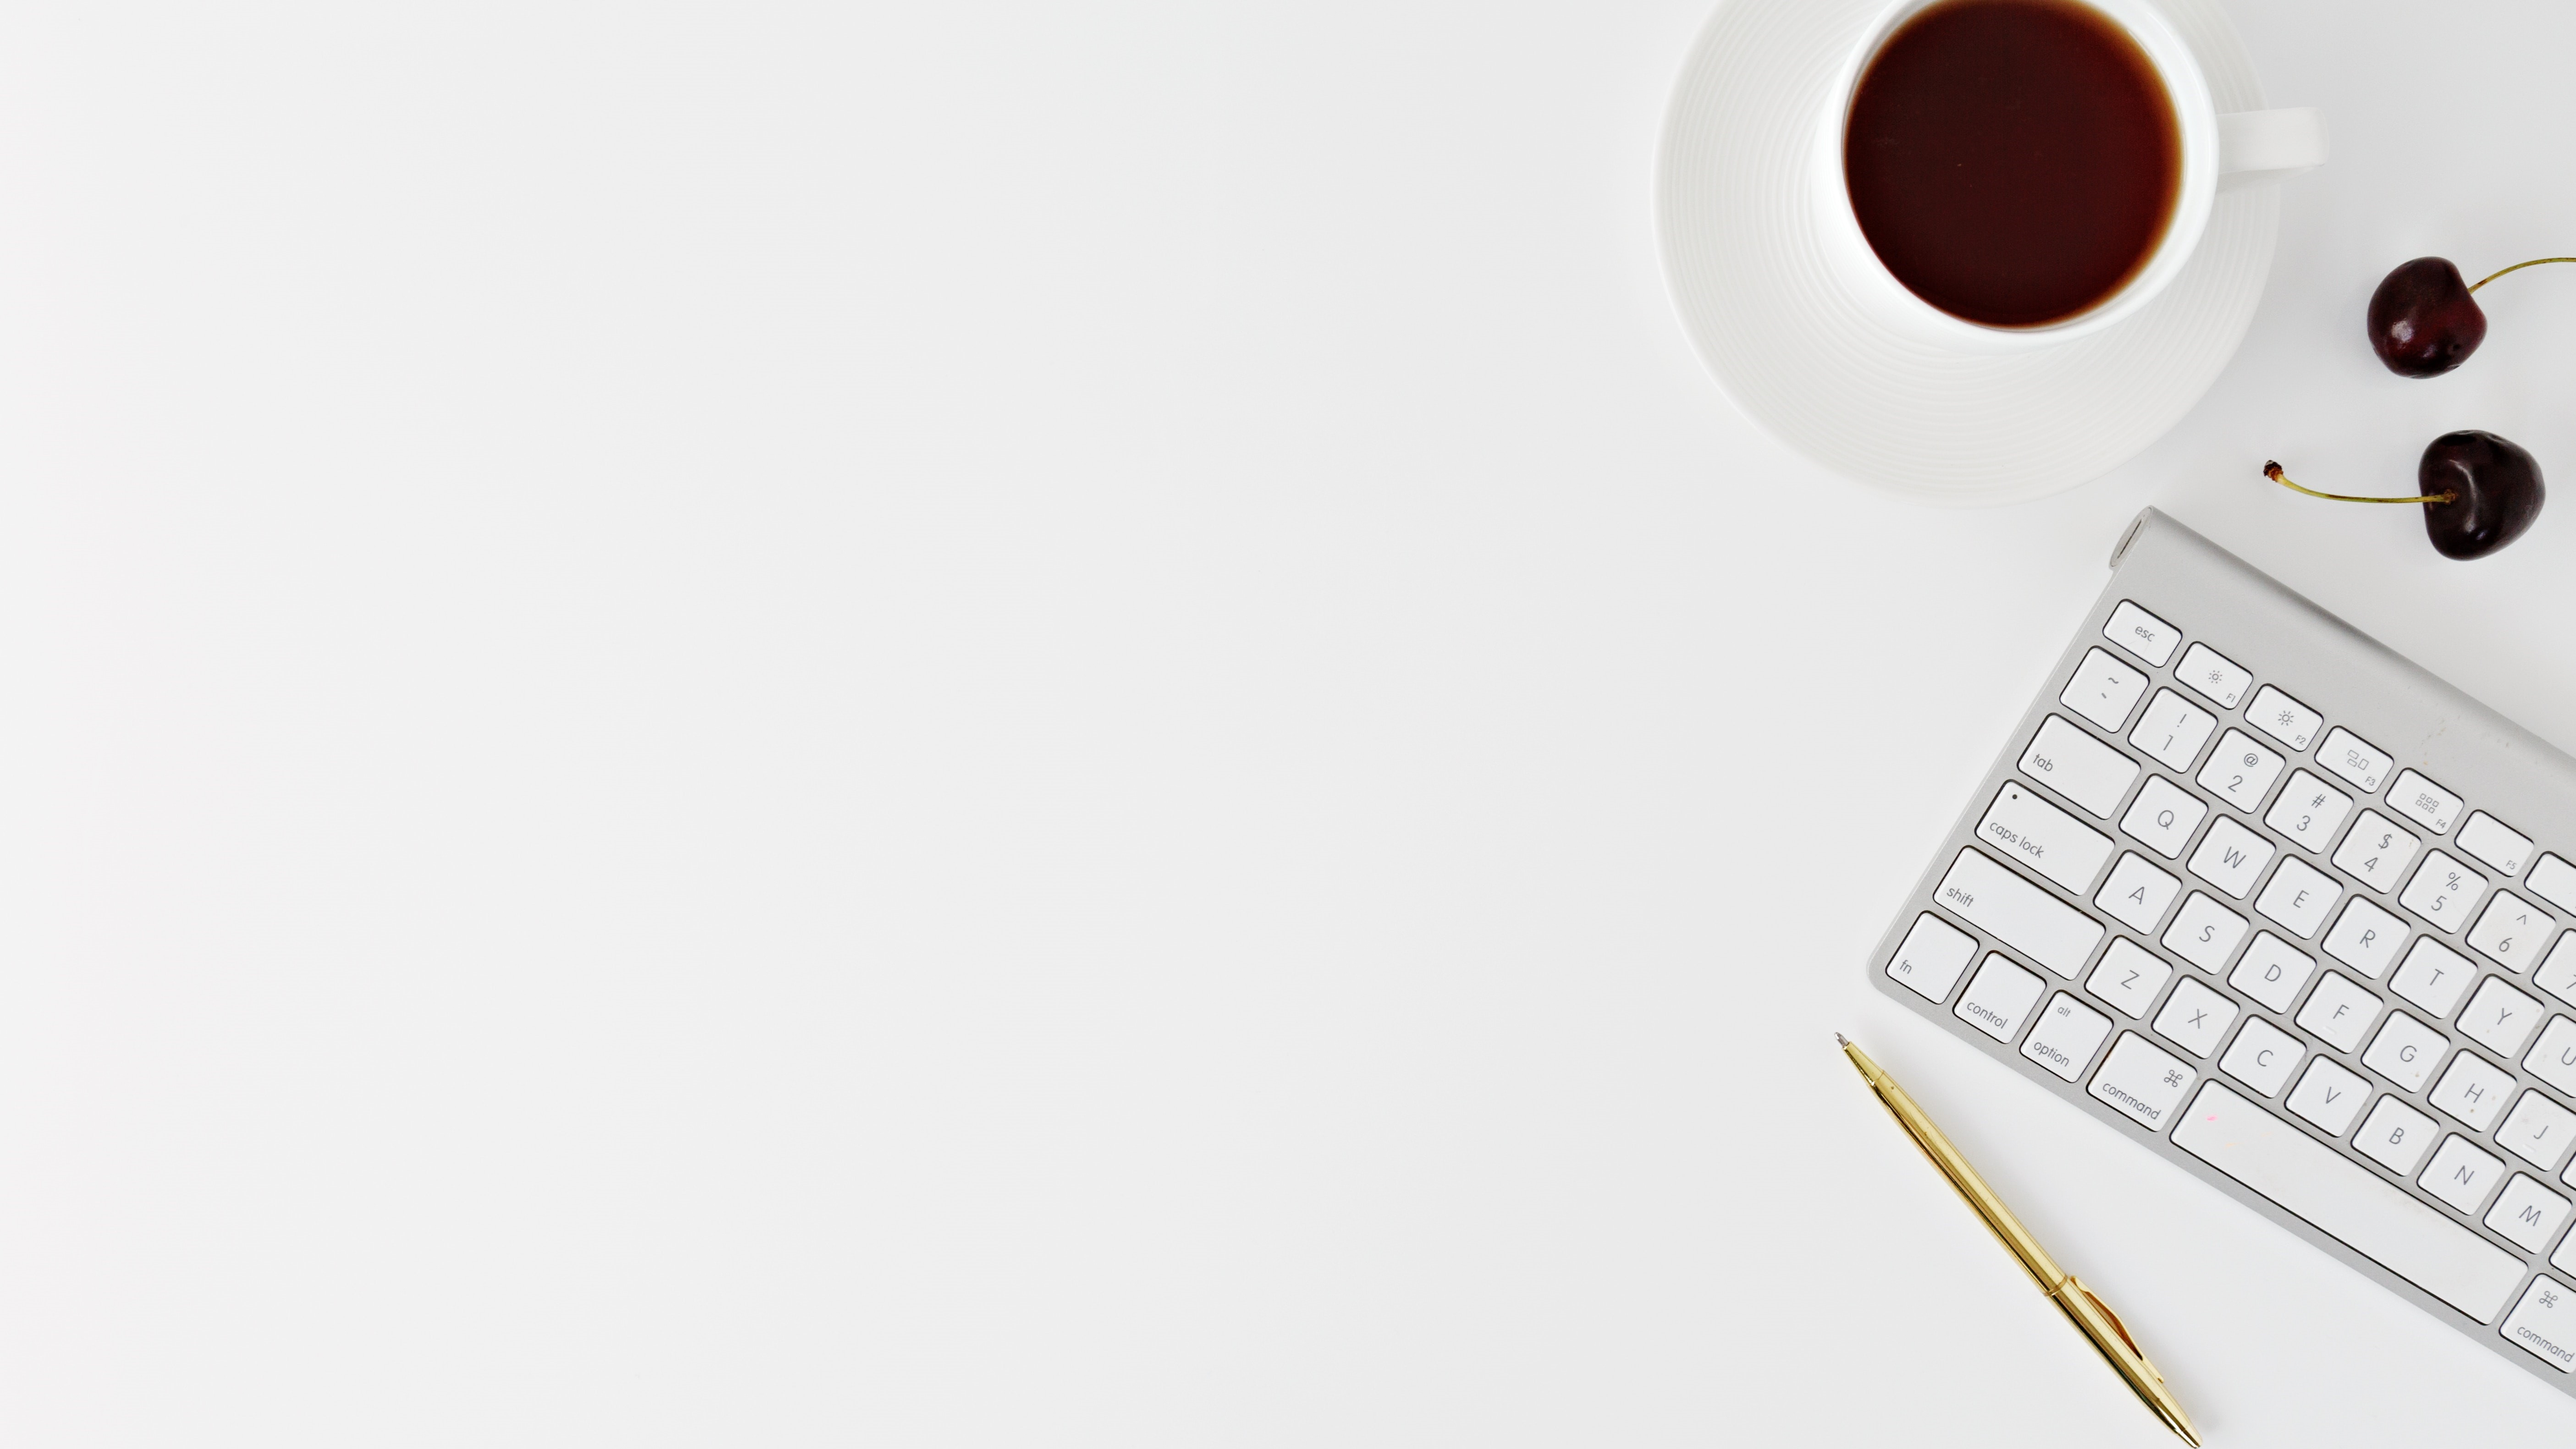
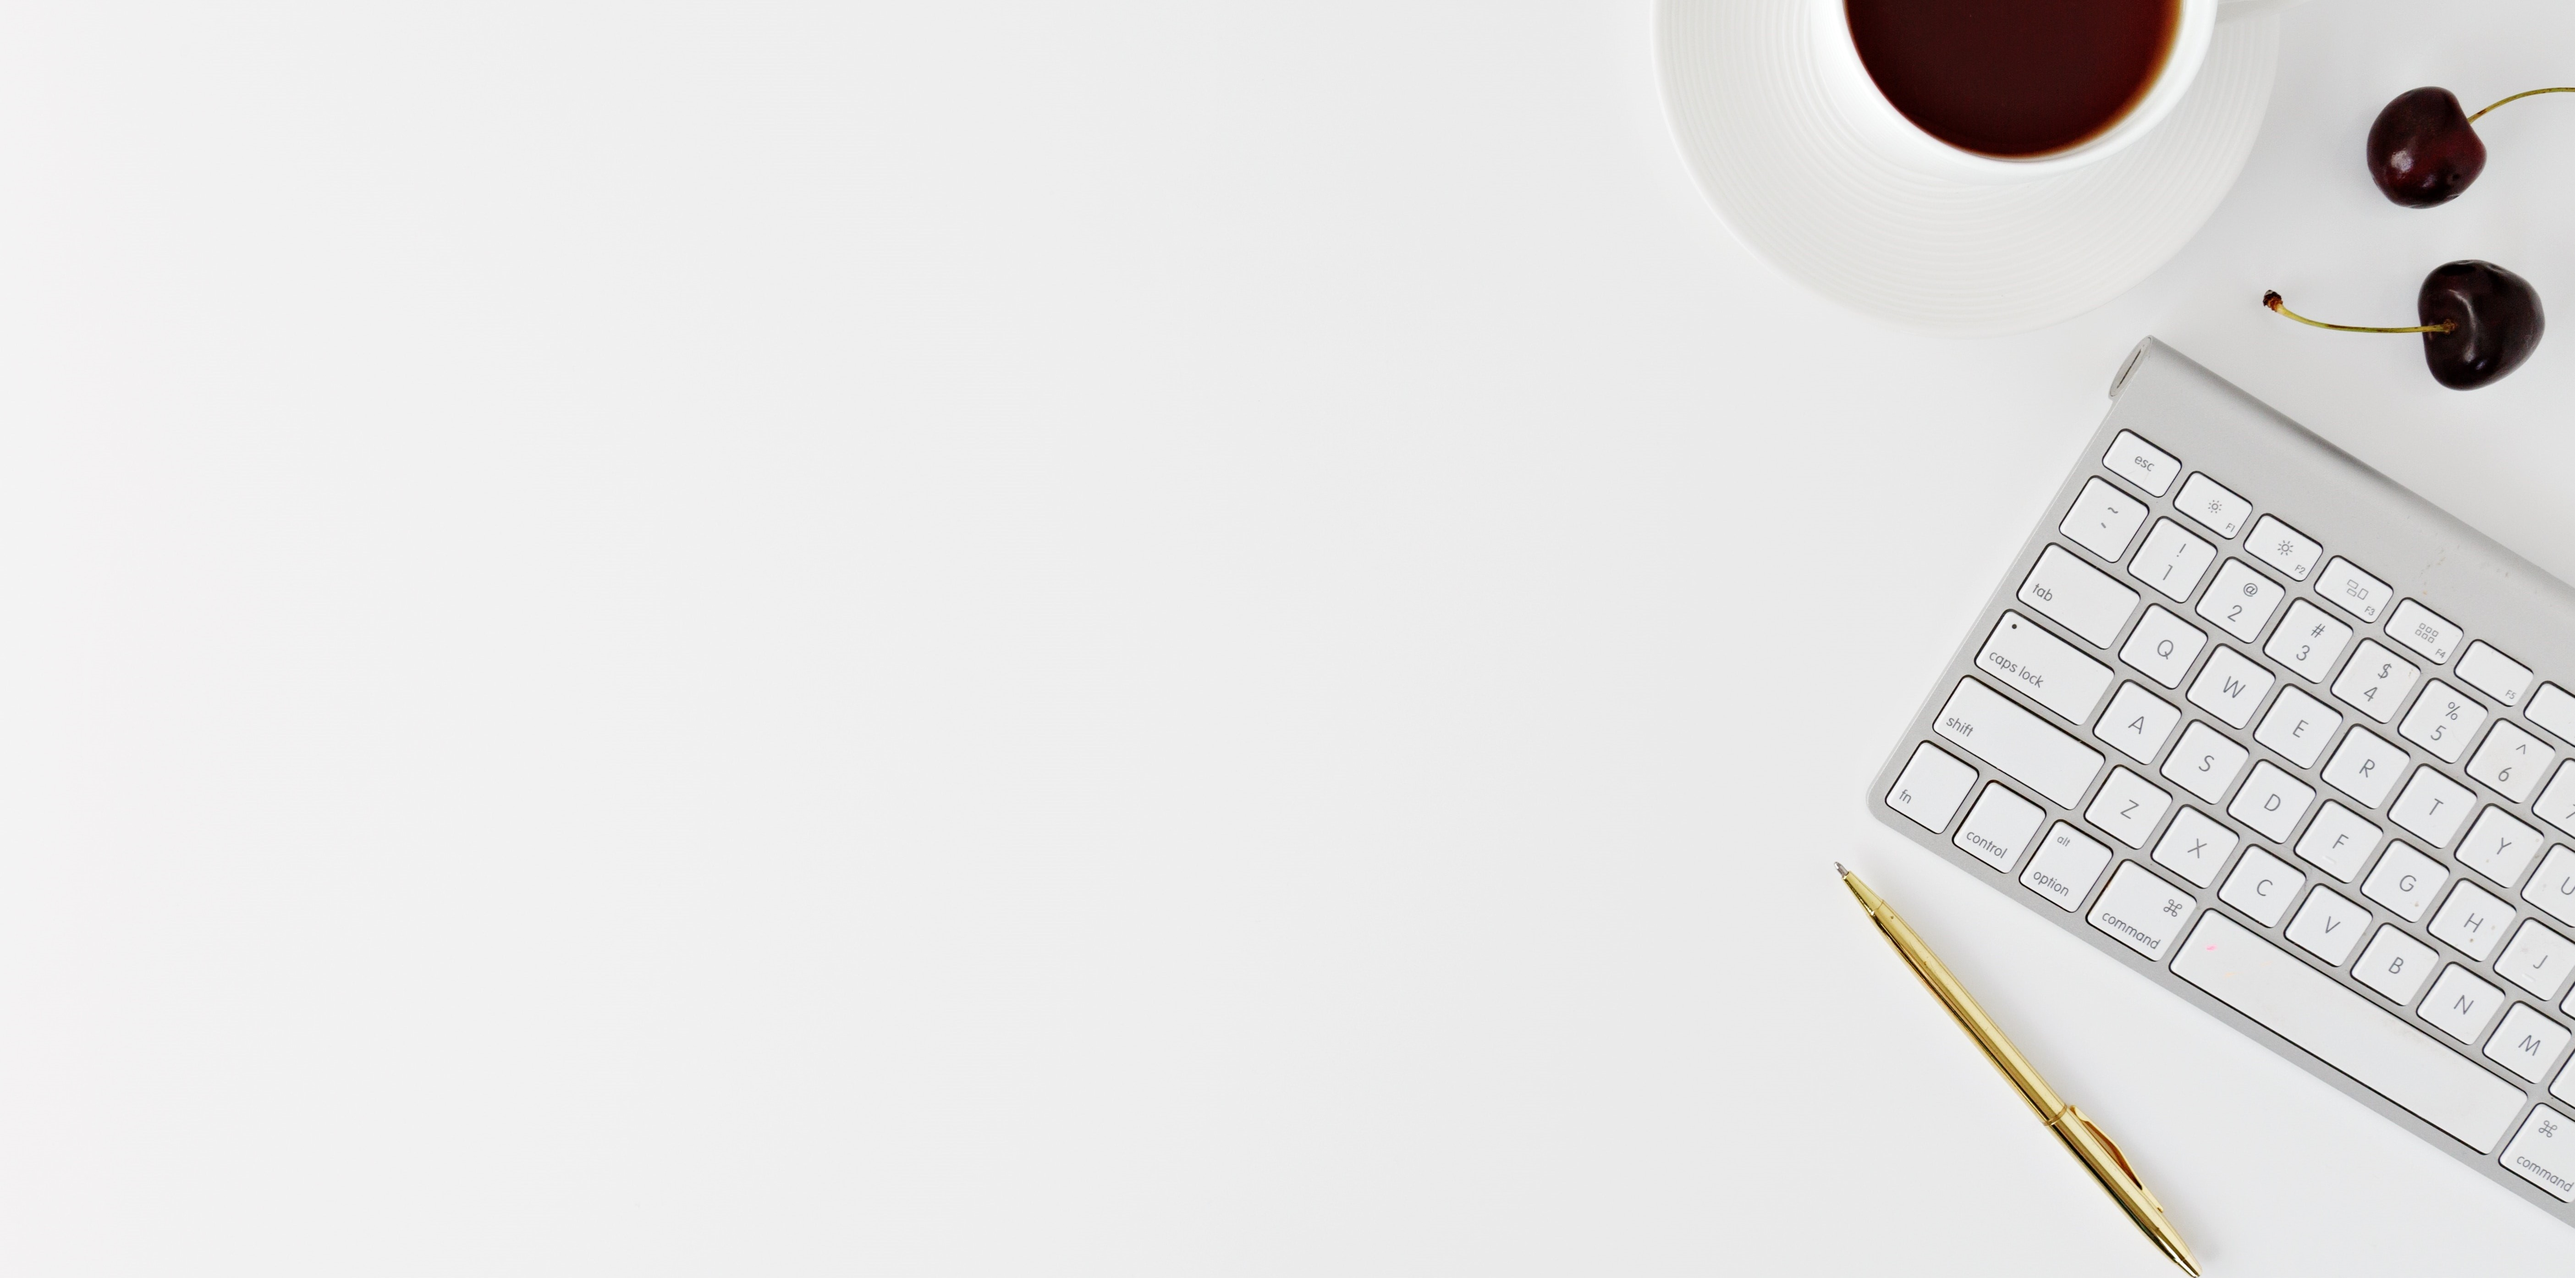
section contact improved

Changed region(s): [[0.7164, 0.0624, 1.0, 0.9982], [0.6853, 0.0, 0.8722, 0.2496], [0.9968, 0.156, 1.0, 0.1872]]

diff --git a/index.html b/index.html
@@ -331,10 +331,67 @@
     <section class="section-contact">
       <div class="container">
         <span class="subheading">Contact info</span>
-        <h2 class="heading-secondary">
+        <h2 class="heading-secondary contact-tittle">
           Have some questions?<br />
           Let's contact us!
         </h2>
+      </div>
+      <div class="container grid grid--3-cols">
+        <div class="contact-info">
+          <div>
+            <p class="contact-data">
+              <ion-icon class="contact-icon" name="locate"></ion-icon>Adress
+            </p>
+            <p class="contact-p">76 Kennington Rd, Lambeth</p>
+            <p class="contact-p">SE11 6NL South London</p>
+          </div>
+          <div>
+            <p class="contact-data">
+              <ion-icon class="contact-icon" name="call"></ion-icon>
+              Phone
+            </p>
+            <p class="contact-p">+020 7735 9883</p>
+            <p class="contact-p">+01344 422444</p>
+          </div>
+          <div>
+            <p class="contact-data">
+              <ion-icon class="contact-icon" name="mail"></ion-icon>Email
+            </p>
+            <p class="contact-p">Contact@cooffeely.com</p>
+          </div>
+        </div>
+        <div class="contact-form-tittle">
+          <p>Send us a message</p>
+          <form class="contact-form">
+            <div>
+              <input
+                id="your-name"
+                type="text"
+                placeholder="Enter Your name"
+                name="Your-name"
+                required
+              />
+            </div>
+            <div>
+              <input
+                id="your-email"
+                type="text"
+                placeholder="Enter Your email"
+                name="Your-email"
+                required
+              />
+            </div>
+            <div>
+              <input
+                id="your-message"
+                type="text"
+                placeholder="Enter Your message"
+                name="Your-message"
+                required
+              />
+            </div>
+          </form>
+        </div>
       </div>
     </section>
   </body>

diff --git a/style.css b/style.css
@@ -227,7 +227,7 @@
 /* SECTION-REVIEWS */
 /*********************/
 .section-review {
-  background-color: #f2f4e9fb;
+  background-color: #f7f8f3d5;
   padding: 8rem 0;
   border-top: 5px double #23320f;
   border-bottom: 5px double #23320f;
@@ -298,10 +298,10 @@
   line-height: 1.6;
 }
 /*********************/
-/* SECTION-CONTACT US */
+/* SECTION-CONTACT */
 /*********************/
 .section-contact {
-  padding: 4.3rem 0;
+  padding: 4.8rem 0;
 
   background-image: linear-gradient(
       to left bottom,
@@ -310,5 +310,68 @@
     ),
     url(./img/contact.jpg);
   background-size: cover;
-  height: 100vh;
+  height: 100%;
+}
+h2.contact-tittle {
+  color: #23320fc8;
+  margin-bottom: 5rem;
+}
+.contact-data {
+  font-size: 2.6rem;
+  margin-bottom: 1.6rem;
+  display: flex;
+  align-items: center;
+  color: #23320fc8;
+}
+.contact-p {
+  font-size: 1.6rem;
+  line-height: 2.6rem;
+}
+.contact-info div {
+  margin-bottom: 1.6rem;
+}
+.contact-form-tittle p {
+  font-size: 2.6rem;
+  color: #23320fc8;
+  margin-bottom: 1.6rem;
+}
+.contact-form {
+  display: flex;
+  flex-direction: column;
+  gap: 2rem;
+}
+.contact-form input {
+  padding: 1rem;
+  width: 50rem;
+  font-size: 1.6rem;
+  font-family: inherit;
+  color: #23320fc8;
+  border-radius: 3px;
+  background-color: #e3e4defb;
+  box-shadow: 0 1px 2px #dad4d0;
+  border: none;
+}
+
+.contact-form *:focus {
+  outline: none;
+  box-shadow: 0 0 0 0.3rem #364d17;
+}
+input:-webkit-autofill input:-webkit-autofill:hover,
+input:-webkit-autofill:focus,
+input:-webkit-autofill:active {
+  -webkit-text-fill-color: #23320fc8 !important;
+  font-size: 1.6rem;
+}
+input:-webkit-autofill,
+input:-webkit-autofill:hover,
+input:-webkit-autofill:focus,
+input:-webkit-autofill:active {
+  -webkit-box-shadow: 0 0 0 30px #e3e4defb inset !important;
+  font-size: 1.6rem;
+}
+#your-message {
+  padding-bottom: 10rem;
+}
+.contact-icon {
+  margin-right: 1.6rem;
 }

diff --git a/general.css b/general.css
@@ -68,7 +68,7 @@ body {
 }
 .grid {
   display: grid;
-  row-gap: 2.4rem;
+  row-gap: 3.2rem;
   column-gap: 6.4rem;
 }
 .grid--2-cols {
